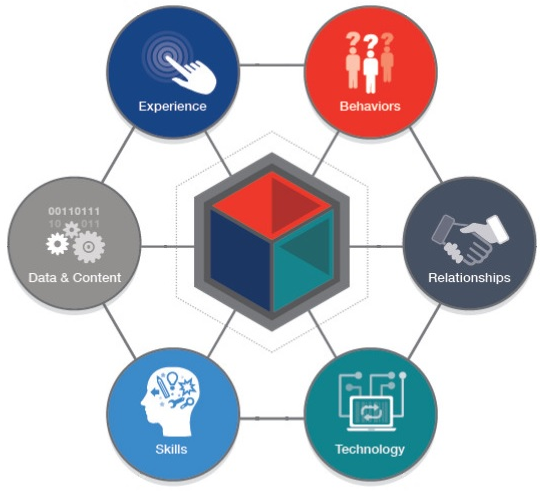
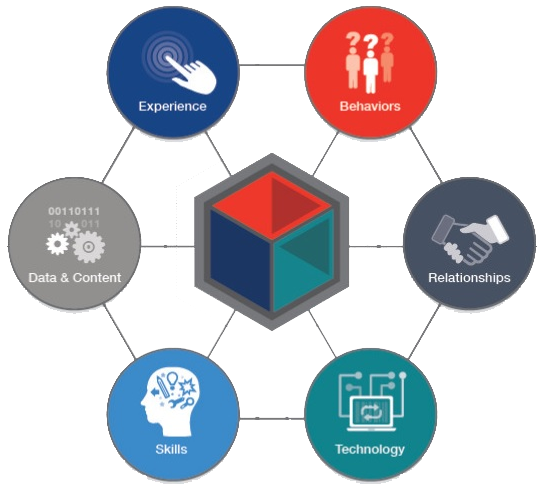
add smart system image

diff --git a/JaydenCraft/index.html b/JaydenCraft/index.html
@@ -293,7 +293,7 @@
                             <div class="col-12 col-md-6">
                                 <div class="secure-image">
                                     <div class="mb-2 mt-5 pt-5 text-center">
-                                       <img src="./img/smart-system.PNG" alt="" style=" object-fit: cover;"></img> 
+                                       <img src="./img/smart-system.PNG" alt="" style=" object-fit: cover;max-height: -webkit-fill-available;"></img> 
                                     </div>   
                                     <br>
                                     <!-- <div class="pr-4" style="float:right;">
